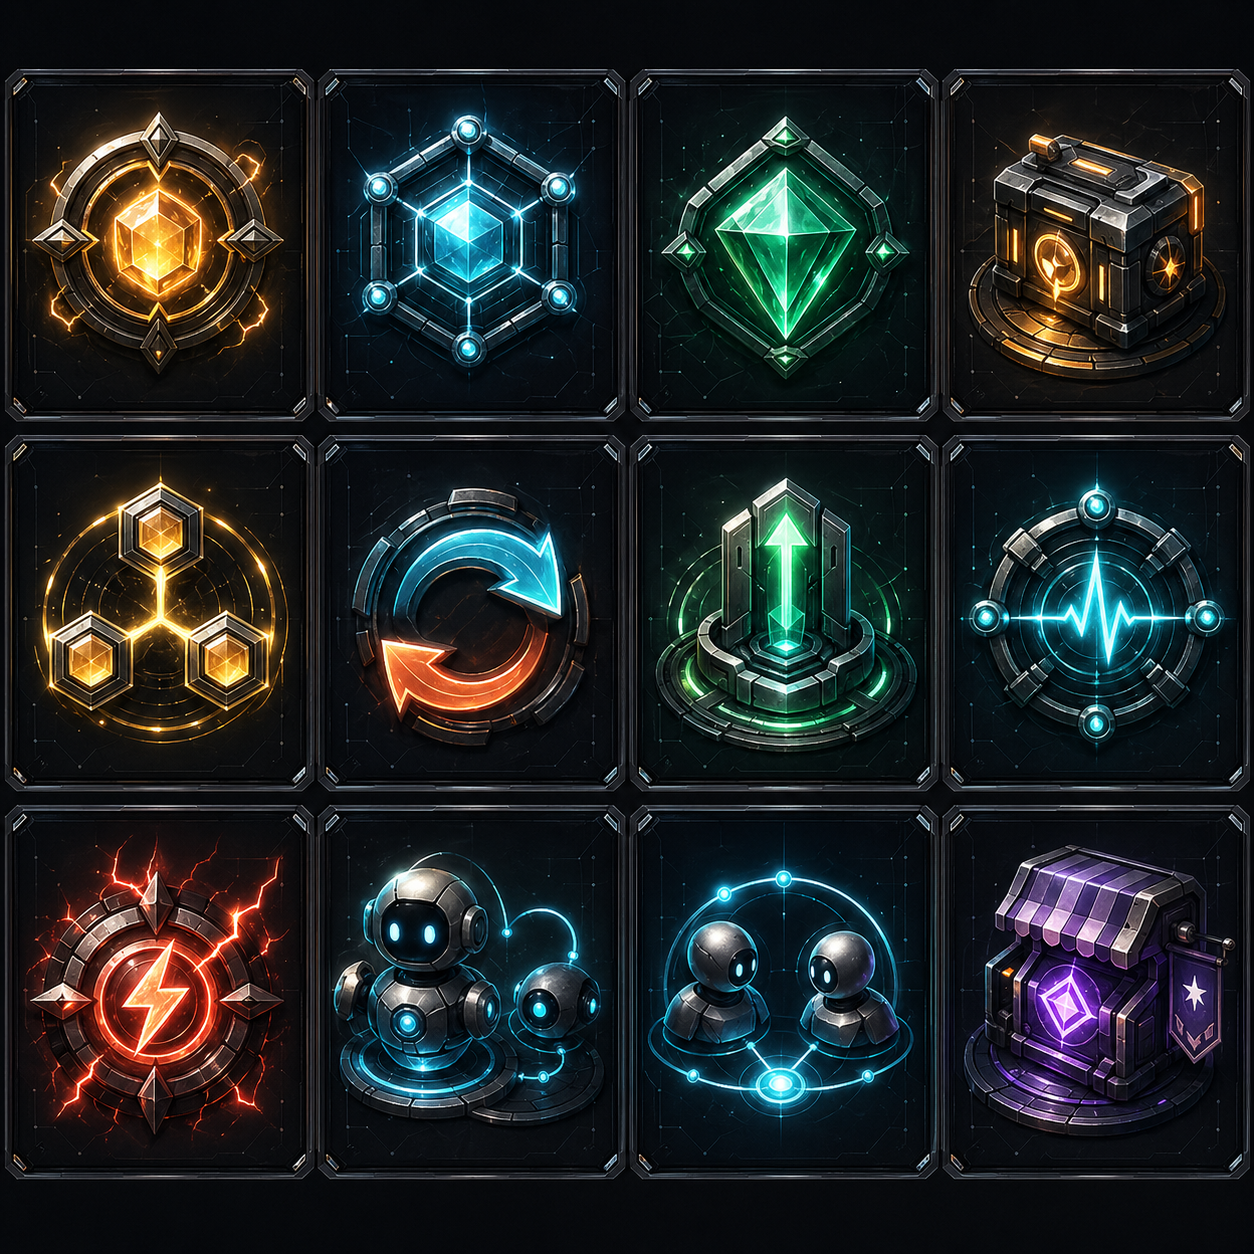
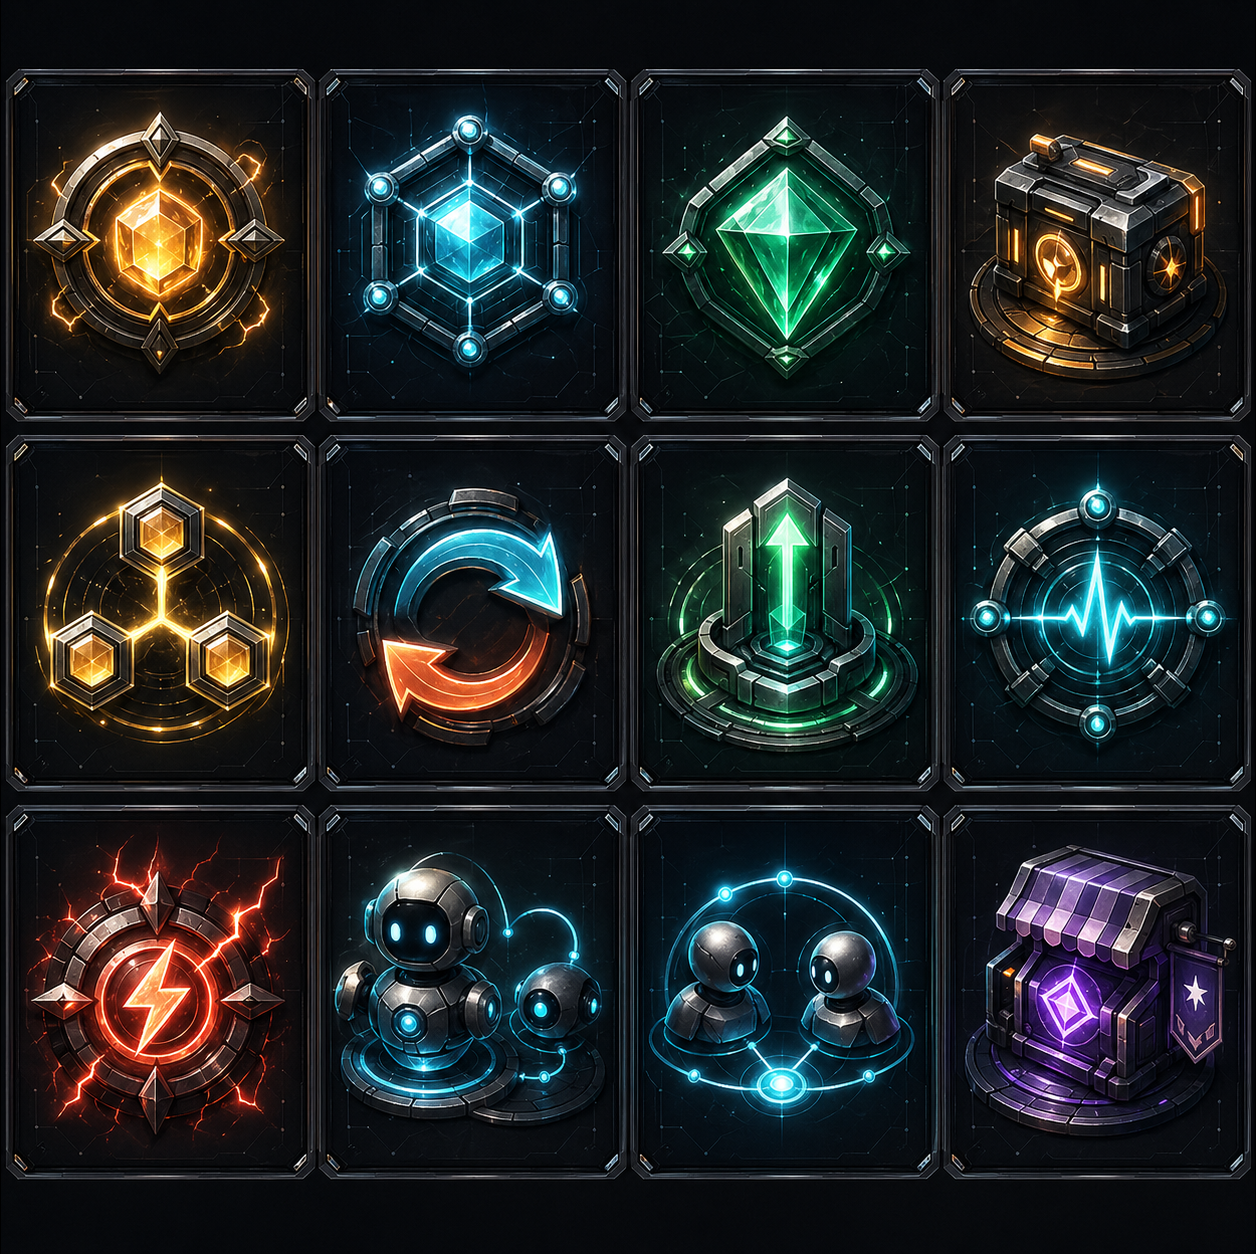
fix: normalize generated atlas rendering

diff --git a/src/client/app.js b/src/client/app.js
@@ -235,36 +235,39 @@ function drawEventFeed(state) {
   if (!event) return;
   const label = eventLabel(event);
   const artIndex = eventArtIndex(event);
+  const hasBossArt = artIndex >= 0 && bossDisruptionAtlas.complete && bossDisruptionAtlas.naturalWidth > 0;
+  const banner = hasBossArt ? { x: 18, y: 181, w: 354, h: 54, r: 10 } : { x: 18, y: 185, w: 354, h: 18, r: 8 };
   ctx.save();
   ctx.fillStyle = 'rgba(5, 7, 8, 0.76)';
   ctx.strokeStyle = 'rgba(244, 201, 93, 0.22)';
   ctx.lineWidth = 1;
   ctx.beginPath();
-  ctx.roundRect(18, 185, 354, 18, 8);
+  ctx.roundRect(banner.x, banner.y, banner.w, banner.h, banner.r);
   ctx.fill();
   ctx.stroke();
-  if (artIndex >= 0 && bossDisruptionAtlas.complete && bossDisruptionAtlas.naturalWidth > 0) {
+  if (hasBossArt) {
     const cellW = bossDisruptionAtlas.naturalWidth / 3;
     const cellH = bossDisruptionAtlas.naturalHeight;
     ctx.save();
     ctx.beginPath();
-    ctx.roundRect(19, 186, 352, 16, 7);
+    ctx.roundRect(banner.x + 1, banner.y + 1, banner.w - 2, banner.h - 2, banner.r - 1);
     ctx.clip();
-    const banner = { x: 19, y: 186, w: 352, h: 16 };
-    const scale = Math.max(banner.w / cellW, banner.h / cellH);
+    const scale = Math.max((banner.w - 2) / cellW, (banner.h - 2) / cellH);
     const drawW = cellW * scale;
     const drawH = cellH * scale;
-    ctx.globalAlpha = 0.5;
-    ctx.drawImage(bossDisruptionAtlas, artIndex * cellW, 0, cellW, cellH, banner.x + (banner.w - drawW) / 2, banner.y + (banner.h - drawH) / 2, drawW, drawH);
+    ctx.globalAlpha = 0.78;
+    ctx.drawImage(bossDisruptionAtlas, artIndex * cellW, 0, cellW, cellH, banner.x + 1 + (banner.w - 2 - drawW) / 2, banner.y + 1 + (banner.h - 2 - drawH) / 2, drawW, drawH);
     ctx.globalAlpha = 1;
-    ctx.fillStyle = 'rgba(5, 7, 8, 0.52)';
-    ctx.fillRect(19, 186, 352, 16);
+    ctx.fillStyle = 'rgba(5, 7, 8, 0.42)';
+    ctx.fillRect(banner.x + 1, banner.y + 1, banner.w - 2, banner.h - 2);
+    ctx.fillStyle = 'rgba(5, 7, 8, 0.58)';
+    ctx.fillRect(banner.x + 1, banner.y + banner.h - 19, banner.w - 2, 18);
     ctx.restore();
   }
   ctx.fillStyle = event.type.startsWith('boss') ? '#f4c95d' : event.type === 'run_finished' ? '#ff6f59' : '#8ee6d2';
-  ctx.font = '850 10px system-ui';
+  ctx.font = hasBossArt ? '900 11px system-ui' : '850 10px system-ui';
   ctx.textAlign = 'left';
-  ctx.fillText(label.toUpperCase(), 27, 198);
+  ctx.fillText(label.toUpperCase(), banner.x + 9, banner.y + banner.h - (hasBossArt ? 6 : 5));
   ctx.restore();
 }
 

diff --git a/test/assets.test.js b/test/assets.test.js
@@ -10,11 +10,27 @@ const GENERATED_ASSETS = [
   'src/client/assets/generated/ui-icon-atlas.png'
 ];
 
+const GRID_ASSETS = [
+  { path: 'src/client/assets/generated/noise-enemy-atlas.png', columns: 4, rows: 2 },
+  { path: 'src/client/assets/generated/boss-disruption-atlas.png', columns: 3, rows: 1 },
+  { path: 'src/client/assets/generated/ui-icon-atlas.png', columns: 4, rows: 3 }
+];
+
 test('generated gameplay atlases are committed as valid png assets', async () => {
   for (const path of GENERATED_ASSETS) {
     const bytes = await readFile(path);
     assert.equal(bytes.subarray(0, 8).toString('hex'), '89504e470d0a1a0a', path);
     assert.equal(bytes.length > 100_000, true, path);
+  }
+});
+
+test('generated gameplay atlases align to their slicing grids', async () => {
+  for (const asset of GRID_ASSETS) {
+    const bytes = await readFile(asset.path);
+    const width = bytes.readUInt32BE(16);
+    const height = bytes.readUInt32BE(20);
+    assert.equal(width % asset.columns, 0, asset.path);
+    assert.equal(height % asset.rows, 0, asset.path);
   }
 });
 

diff --git a/docs/design/generation/asset_generation_guide.md b/docs/design/generation/asset_generation_guide.md
@@ -10,9 +10,9 @@ Every visible unit, board surface, loop effect, and premium UI accent should loo
 |---|---|---|
 | Art direction reference | `src/client/assets/generated/signal-relay-art-direction.png` | Renderer backdrop reference and visual consistency target |
 | Relay icon atlas | `src/client/assets/generated/relay-unit-atlas.png` | 20 Relay icons in roster order |
-| Enemy/Noise atlas | `src/client/assets/generated/noise-enemy-atlas.png` | Track Noise and boss sprites in 4x2 order |
-| Boss disruption atlas | `src/client/assets/generated/boss-disruption-atlas.png` | Boss Orchid, Boss Mirror, Origin Null event-feed cards |
-| UI icon atlas | `src/client/assets/generated/ui-icon-atlas.png` | Resource and action button icons in 4x3 order |
+| Enemy/Noise atlas | `src/client/assets/generated/noise-enemy-atlas.png` | Track Noise and boss sprites in 4x2 order; normalized to 1776x888 |
+| Boss disruption atlas | `src/client/assets/generated/boss-disruption-atlas.png` | Boss Orchid, Boss Mirror, Origin Null event-feed cards; normalized to 2106x747 |
+| UI icon atlas | `src/client/assets/generated/ui-icon-atlas.png` | Resource and action button icons in 4x3 order; normalized to 1256x1254 |
 
 ## Visual Rules
 
@@ -82,6 +82,7 @@ Avoid: words, letters, numbers, dice pips, random summon icons, chibi units, fan
 ## Enemy/Noise Atlas Order
 
 The generated atlas is a 4 columns by 2 rows image. Code slices it by `NOISE_TYPES[id].atlasIndex` in this order:
+The committed file must have dimensions divisible by 4 and 2. The current normalized target is 1776x888.
 
 1. Flicker
 2. Crawler
@@ -95,6 +96,7 @@ The generated atlas is a 4 columns by 2 rows image. Code slices it by `NOISE_TYP
 ## UI Icon Atlas Order
 
 The generated atlas is a 4 columns by 3 rows image. CSS slices it with `background-position` in this order:
+The committed file must have dimensions divisible by 4 and 3. The current normalized target is 1256x1254.
 
 1. Charge
 2. Link Energy
@@ -112,6 +114,7 @@ The generated atlas is a 4 columns by 3 rows image. CSS slices it with `backgrou
 ## Boss Disruption Atlas Order
 
 The generated atlas is a 3 columns by 1 row image. Code slices it in this order:
+The committed file must have dimensions divisible by 3 and 1. The current normalized target is 2106x747.
 
 1. Boss Orchid Heatroot
 2. Boss Mirror Linkbreak